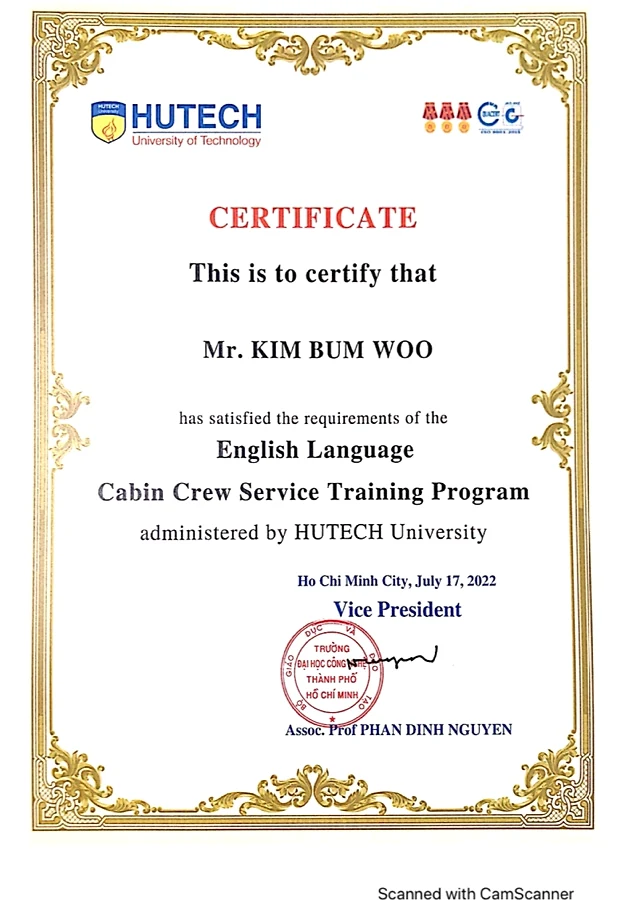
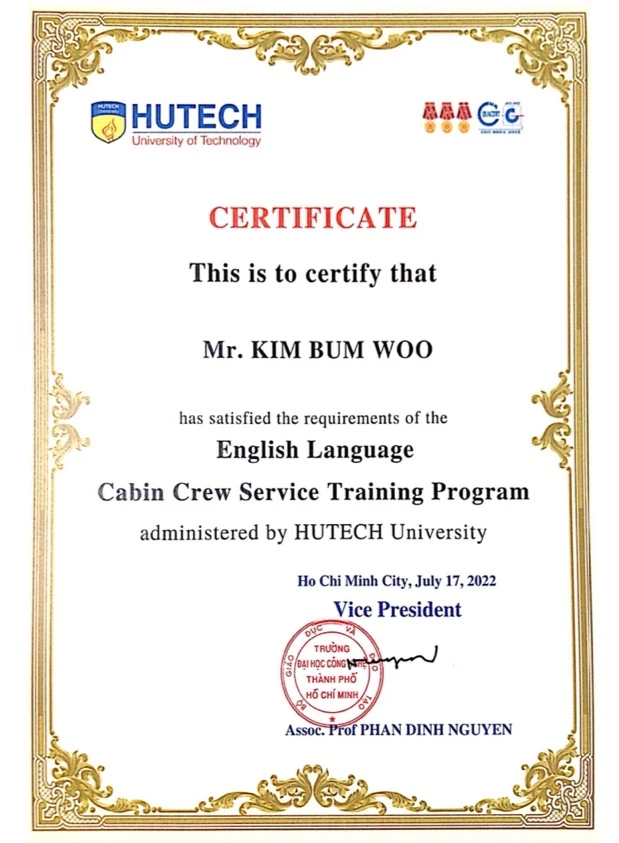
fix(portfolio): improve certificate media viewing

diff --git a/src/app/about/page.tsx b/src/app/about/page.tsx
@@ -3,6 +3,7 @@ import { Container } from "@/components/ui/Container";
 import { PageHeader } from "@/components/site/PageHeader";
 import { Reveal } from "@/components/motion/Reveal";
 import { OptionalImage } from "@/components/site/OptionalImage";
+import { LightboxImage } from "@/components/site/ImageLightbox";
 import { profileData } from "@/data/profile";
 import { educationData } from "@/data/education";
 import { awardsData } from "@/data/awards";
@@ -231,21 +232,15 @@ export default function AboutPage() {
                         </p>
                       )}
                     </div>
-                    {hasImage && (
-                      <a
-                        href={item.imagePath}
-                        target="_blank"
-                        rel="noopener noreferrer"
-                        aria-label={`${item.institution} 수료증 원본 보기`}
-                        className="group/media self-center overflow-hidden rounded-xl border border-ink/10 bg-white transition-all duration-300 hover:shadow-[0_16px_32px_-20px_rgba(20,22,26,0.3)]"
-                      >
-                        <OptionalImage
-                          src={item.imagePath}
-                          alt={item.imageAlt ?? `${item.institution} 수료 증빙 이미지`}
-                          className="h-auto w-full object-contain transition-transform duration-500 group-hover/media:scale-[1.02]"
-                          wrapperClassName="w-full"
-                        />
-                      </a>
+                    {hasImage && item.imagePath && (
+                      <LightboxImage
+                        src={item.imagePath}
+                        alt={item.imageAlt ?? `${item.institution} 수료 증빙 이미지`}
+                        label={`${item.institution} 수료증`}
+                        buttonClassName="self-center overflow-hidden rounded-xl border border-ink/10 bg-white transition-all duration-300 hover:shadow-[0_16px_32px_-20px_rgba(20,22,26,0.3)]"
+                        thumbnailClassName="h-auto w-full object-contain transition-transform duration-500 group-hover/media:scale-[1.02] motion-reduce:transition-none"
+                        thumbnailWrapperClassName="w-full"
+                      />
                     )}
                   </div>
                 </Reveal>
@@ -289,80 +284,54 @@ export default function AboutPage() {
                         {award.description}
                       </p>
                       {/* mobile media — stacked below text, constrained width so vertical docs stay legible */}
-                      {hasImage && (
+                      {hasImage && award.imagePath && (
                         <div className="mt-4 md:hidden">
-                          <a
-                            href={award.imagePath}
-                            target="_blank"
-                            rel="noopener noreferrer"
-                            aria-label={`${award.title} 증빙 원본 보기`}
-                            className="group/media block overflow-hidden rounded-lg border border-ink/10 bg-white"
-                          >
-                            <OptionalImage
-                              src={award.imagePath}
-                              alt={award.imageAlt ?? `${award.title} 증빙 이미지`}
-                              className="h-auto w-full object-contain"
-                              wrapperClassName="mx-auto max-w-[320px]"
-                            />
-                          </a>
+                          <LightboxImage
+                            src={award.imagePath}
+                            alt={award.imageAlt ?? `${award.title} 증빙 이미지`}
+                            label={award.title}
+                            buttonClassName="block overflow-hidden rounded-lg border border-ink/10 bg-white"
+                            thumbnailClassName="h-auto w-full object-contain"
+                            thumbnailWrapperClassName="mx-auto max-w-[320px]"
+                          />
                           {is2017 && award.secondaryImagePath && (
-                            <a
-                              href={award.secondaryImagePath}
-                              target="_blank"
-                              rel="noopener noreferrer"
-                              aria-label={`${award.title} 수상 기록 원본 보기`}
-                              className="group/media mt-3 block overflow-hidden rounded-lg border border-ink/10 bg-white opacity-95"
-                            >
-                              <OptionalImage
-                                src={award.secondaryImagePath}
-                                alt={
-                                  award.secondaryImageAlt ?? `${award.title} 수상 기록 이미지`
-                                }
-                                className="h-auto w-full object-contain"
-                                wrapperClassName="mx-auto max-w-[280px]"
-                              />
-                            </a>
+                            <LightboxImage
+                              src={award.secondaryImagePath}
+                              alt={
+                                award.secondaryImageAlt ?? `${award.title} 수상 기록 이미지`
+                              }
+                              label={`${award.title} 수상 기록`}
+                              buttonClassName="mt-3 block overflow-hidden rounded-lg border border-ink/10 bg-white opacity-95"
+                              thumbnailClassName="h-auto w-full object-contain"
+                              thumbnailWrapperClassName="mx-auto max-w-[280px]"
+                            />
                           )}
                         </div>
                       )}
                     </div>
                     {/* desktop media slot — fixed width column, vertical docs keep natural portrait ratio */}
-                    {hasImage && (
+                    {hasImage && award.imagePath && (
                       <div className="hidden flex-col gap-3 md:flex">
-                        <a
-                          href={award.imagePath}
-                          target="_blank"
-                          rel="noopener noreferrer"
-                          aria-label={`${award.title} 증빙 원본 보기`}
-                          className="group/media block overflow-hidden rounded-lg border border-ink/10 bg-white transition-all duration-300 hover:shadow-[0_16px_32px_-20px_rgba(20,22,26,0.28)]"
-                        >
-                          <OptionalImage
-                            src={award.imagePath}
-                            alt={award.imageAlt ?? `${award.title} 증빙 이미지`}
-                            className="h-auto w-full object-contain transition-transform duration-500 group-hover/media:scale-[1.02]"
-                            wrapperClassName="w-full"
-                          />
-                        </a>
+                        <LightboxImage
+                          src={award.imagePath}
+                          alt={award.imageAlt ?? `${award.title} 증빙 이미지`}
+                          label={award.title}
+                          buttonClassName="block overflow-hidden rounded-lg border border-ink/10 bg-white transition-all duration-300 hover:shadow-[0_16px_32px_-20px_rgba(20,22,26,0.28)]"
+                          thumbnailClassName="h-auto w-full object-contain transition-transform duration-500 group-hover/media:scale-[1.02] motion-reduce:transition-none"
+                          thumbnailWrapperClassName="w-full"
+                        />
                         {is2017 && award.secondaryImagePath && (
-                          <a
-                            href={award.secondaryImagePath}
-                            target="_blank"
-                            rel="noopener noreferrer"
-                            aria-label={`${award.title} 수상 기록 원본 보기`}
-                            className="group/media block overflow-hidden rounded-lg border border-ink/10 bg-white opacity-90 transition-all duration-300 hover:opacity-100"
-                          >
-                            <OptionalImage
-                              src={award.secondaryImagePath}
-                              alt={
-                                award.secondaryImageAlt ?? `${award.title} 수상 기록 이미지`
-                              }
-                              className="h-auto w-full object-contain transition-transform duration-500 group-hover/media:scale-[1.02]"
-                              wrapperClassName="w-full"
-                            />
-                            <span className="block px-2 py-1.5 text-center font-mono text-[10px] tracking-wide text-muted">
-                              수상 기록
-                            </span>
-                          </a>
+                          <LightboxImage
+                            src={award.secondaryImagePath}
+                            alt={
+                              award.secondaryImageAlt ?? `${award.title} 수상 기록 이미지`
+                            }
+                            label={`${award.title} 수상 기록`}
+                            buttonClassName="block overflow-hidden rounded-lg border border-ink/10 bg-white opacity-90 transition-all duration-300 hover:opacity-100"
+                            thumbnailClassName="h-auto w-full object-contain transition-transform duration-500 group-hover/media:scale-[1.02] motion-reduce:transition-none"
+                            thumbnailWrapperClassName="w-full"
+                            footer="수상 기록"
+                          />
                         )}
                       </div>
                     )}

diff --git a/src/components/site/ImageLightbox.tsx b/src/components/site/ImageLightbox.tsx
@@ -1,0 +1,128 @@
+"use client";
+
+import React from "react";
+import { createPortal } from "react-dom";
+import { OptionalImage } from "./OptionalImage";
+
+interface LightboxImageProps {
+  readonly src: string;
+  readonly alt: string;
+  /** Base label, e.g. award title or institution (used for open/close aria-labels). */
+  readonly label: string;
+  readonly buttonClassName?: string;
+  readonly thumbnailClassName?: string;
+  readonly thumbnailWrapperClassName?: string;
+  /** Small footer line rendered under the thumbnail (e.g. "수상 기록"). */
+  readonly footer?: string;
+}
+
+/**
+ * Accessible in-site lightbox for certificate thumbnails.
+ * Replaces the previous 새 탭 link pattern so evidence images open
+ * in a fullscreen overlay with a clear close affordance.
+ */
+export const LightboxImage: React.FC<LightboxImageProps> = ({
+  src,
+  alt,
+  label,
+  buttonClassName = "",
+  thumbnailClassName = "",
+  thumbnailWrapperClassName = "",
+  footer,
+}) => {
+  const [open, setOpen] = React.useState(false);
+  const triggerRef = React.useRef<HTMLButtonElement | null>(null);
+  const closeRef = React.useRef<HTMLButtonElement | null>(null);
+
+  /* Escape to close + body scroll lock + initial focus. */
+  React.useEffect(() => {
+    if (!open) return;
+    const prevOverflow = document.body.style.overflow;
+    document.body.style.overflow = "hidden";
+    closeRef.current?.focus();
+
+    const onKeyDown = (event: KeyboardEvent) => {
+      if (event.key === "Escape") {
+        event.preventDefault();
+        setOpen(false);
+      }
+    };
+    document.addEventListener("keydown", onKeyDown);
+    return () => {
+      document.body.style.overflow = prevOverflow;
+      document.removeEventListener("keydown", onKeyDown);
+    };
+  }, [open ]);
+
+  const close = React.useCallback(() => {
+    setOpen(false);
+    /* Restore focus to the thumbnail that opened the dialog. */
+    requestAnimationFrame(() => {
+      triggerRef.current?.focus();
+    });
+  }, []);
+
+  return (
+    <>
+      <button
+        ref={triggerRef}
+        type="button"
+        onClick={() => setOpen(true)}
+        aria-label={`${label} 확대 보기`}
+        aria-haspopup="dialog"
+        className={`group/media cursor-zoom-in ${buttonClassName}`}
+      >
+        <OptionalImage
+          src={src}
+          alt={alt}
+          className={thumbnailClassName}
+          wrapperClassName={thumbnailWrapperClassName}
+        />
+        {footer && (
+          <span className="block px-2 py-1.5 text-center font-mono text-[10px] tracking-wide text-muted">
+            {footer}
+          </span>
+        )}
+      </button>
+
+      {open &&
+        createPortal(
+          <div
+            role="dialog"
+            aria-modal="true"
+            aria-label={`${label} 확대 이미지`}
+            onClick={close}
+            className="fixed inset-0 z-[100] flex items-center justify-center bg-black/85 p-4 sm:p-8"
+            style={{
+              paddingTop: "max(1rem, env(safe-area-inset-top))",
+              paddingBottom: "max(1rem, env(safe-area-inset-bottom))",
+              paddingLeft: "max(1rem, env(safe-area-inset-left))",
+              paddingRight: "max(1rem, env(safe-area-inset-right))",
+            }}
+          >
+            <button
+              ref={closeRef}
+              type="button"
+              onClick={close}
+              aria-label="확대 이미지 닫기"
+              className="absolute top-4 right-4 flex h-11 w-11 items-center justify-center rounded-full border border-white/25 bg-white/10 text-[20px] leading-none text-white transition-colors duration-200 hover:bg-white/25 focus-visible:outline-2 focus-visible:outline-white motion-reduce:transition-none"
+              style={{
+                top: "max(1rem, env(safe-area-inset-top))",
+                right: "max(1rem, env(safe-area-inset-right))",
+              }}
+            >
+              <span aria-hidden="true">×</span>
+            </button>
+            {/* eslint-disable-next-line @next/next/no-img-element -- static export + images.unoptimized; raw <img> is intentional */}
+            <img
+              src={src}
+              alt={alt}
+              onClick={(event) => event.stopPropagation()}
+              className="h-auto max-h-[85vh] w-auto max-w-[92vw] rounded-lg bg-white object-contain shadow-2xl"
+            />
+          </div>,
+          document.body,
+        )}
+    </>
+  );
+};
